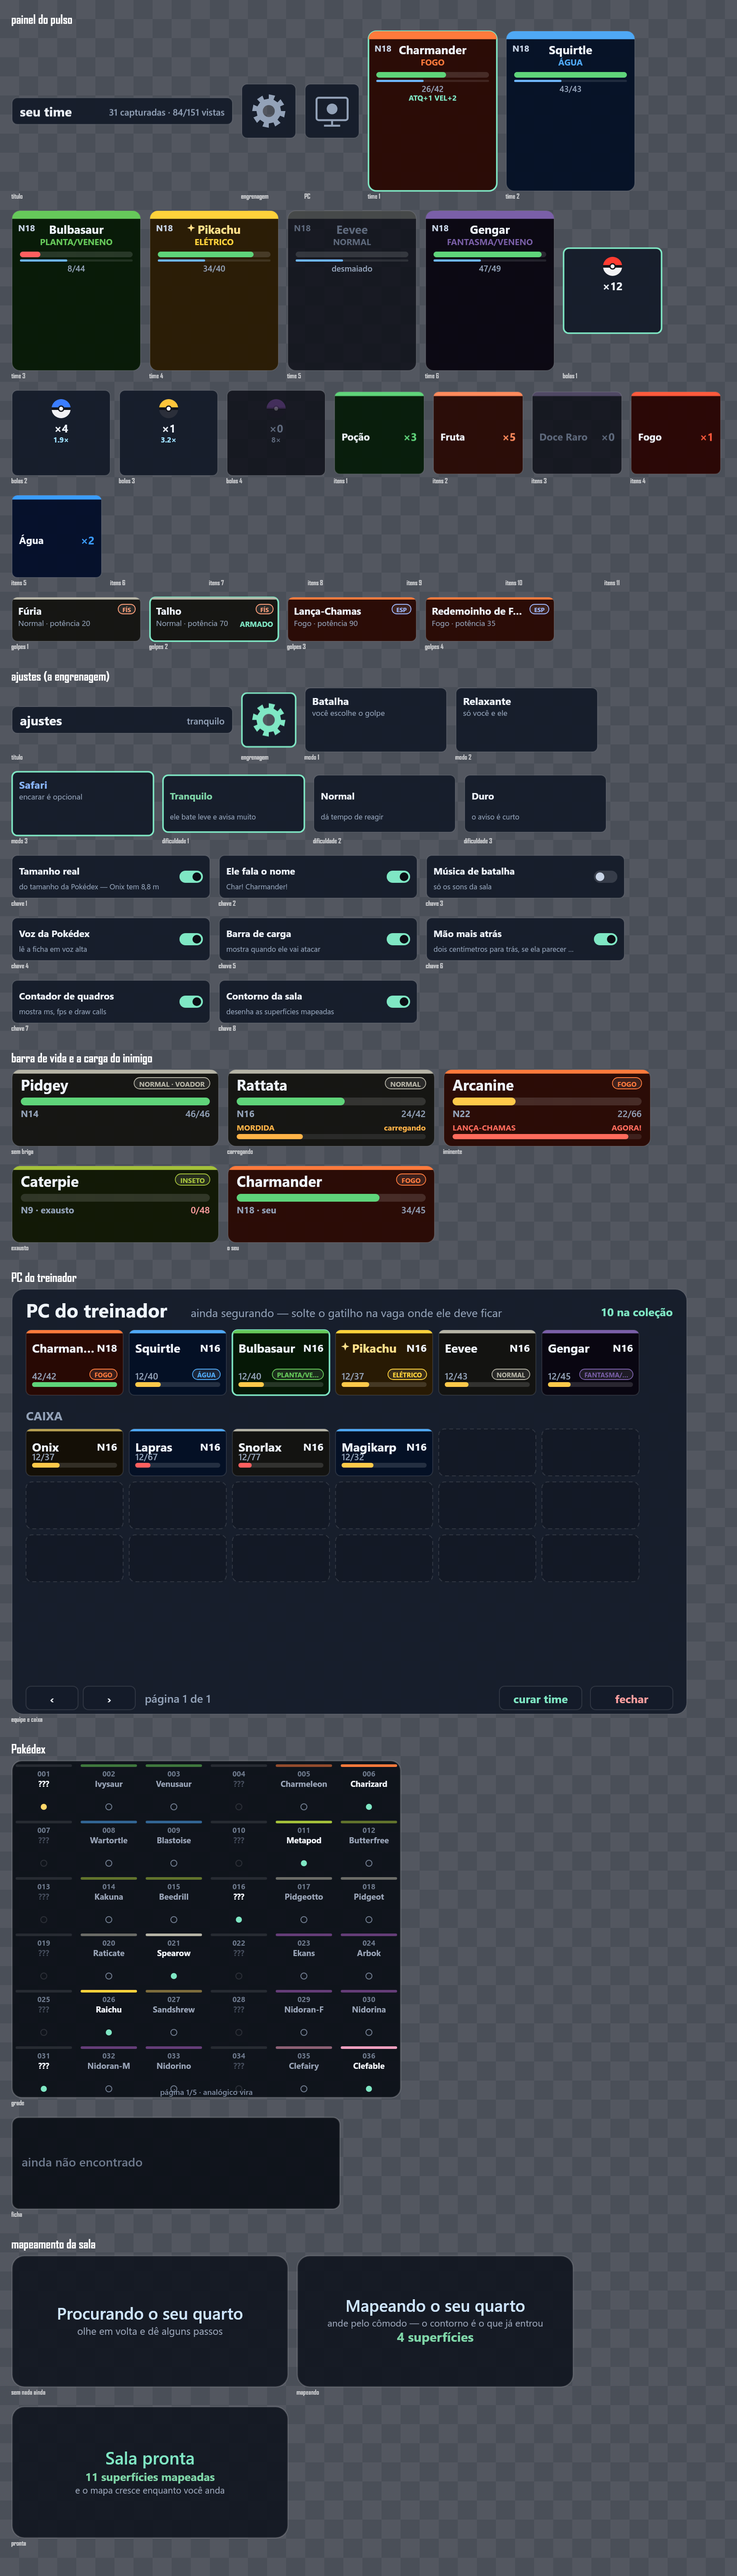
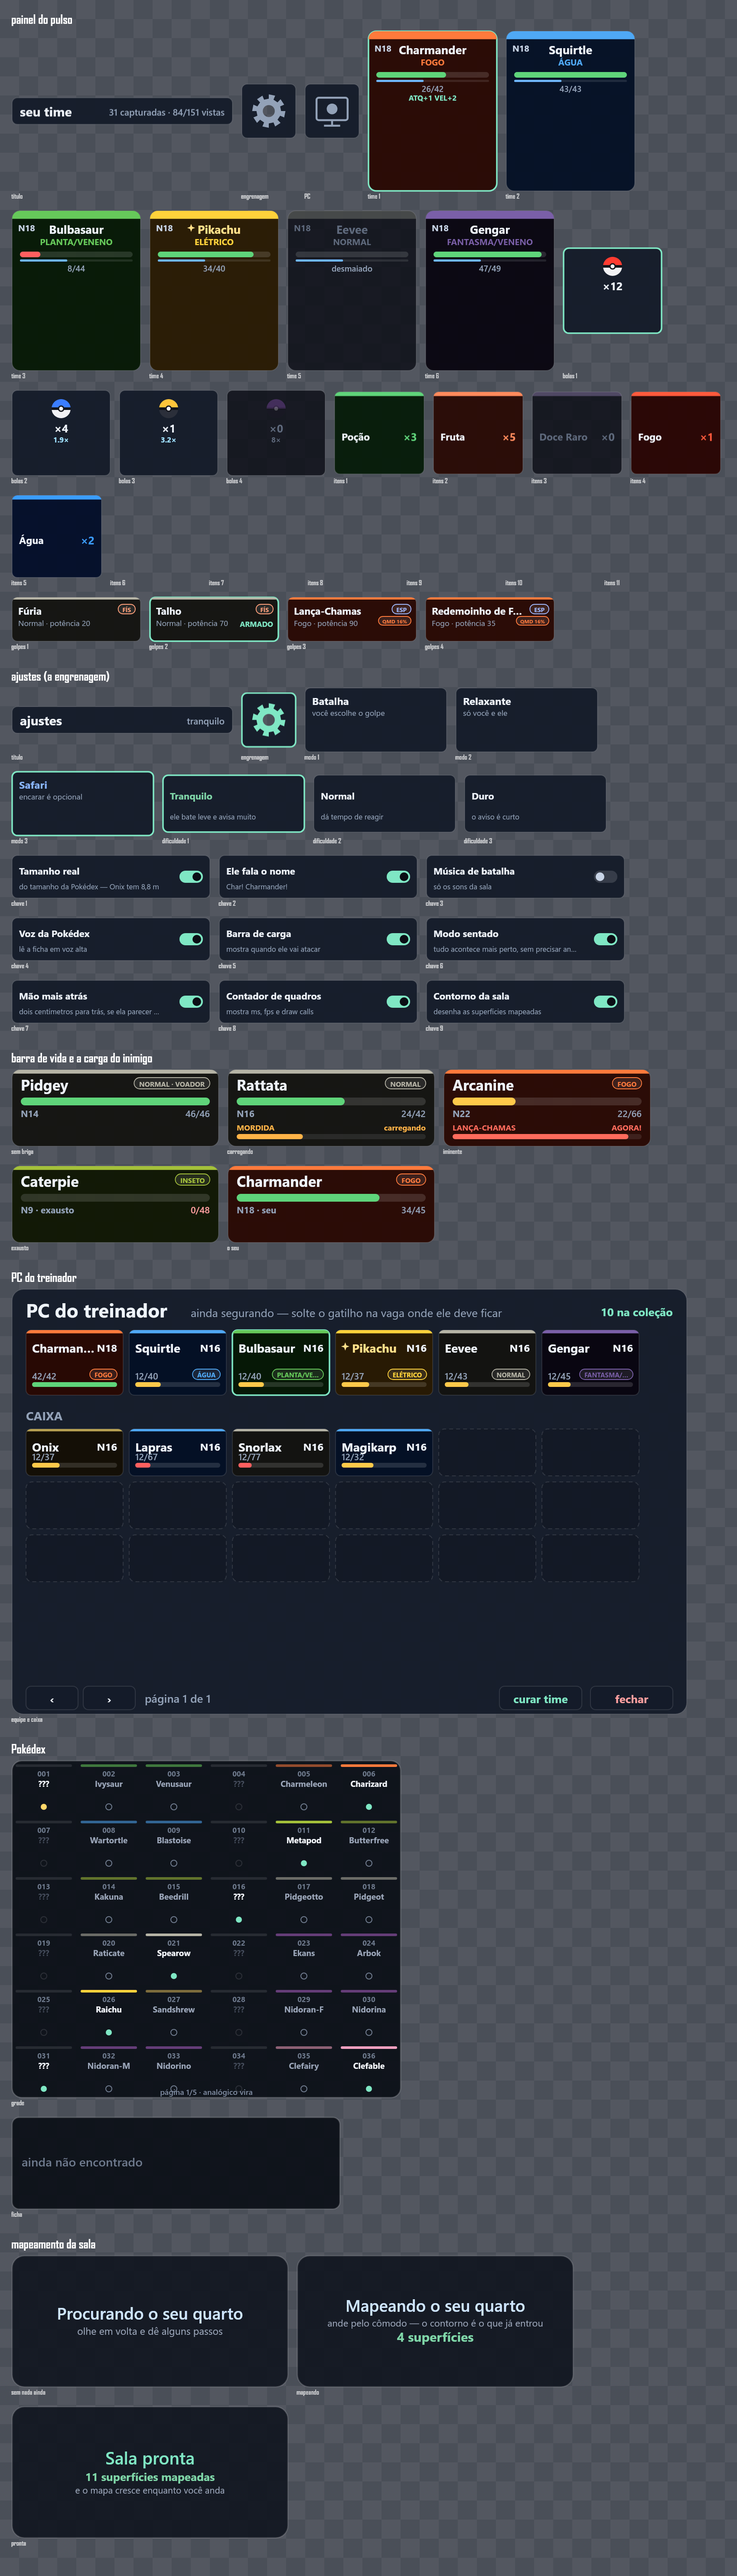
O Centro Pokémon vira um móvel da sua casa, e as condições saem do escuro
Duas coisas nesta rodada, e a primeira existe porque a anterior não estaria
terminada sem ela.

**As condições estavam invisíveis.** Sono, paralisia, queimadura e veneno
entraram no combate no commit passado e não apareciam em lugar nenhum da
interface antes da escolha. Um jogador podia jogar a sessão inteira sem
descobrir que adormecer existe — e uma mecânica que ninguém encontra é uma
mecânica que não foi feita.

Agora o card do golpe, no painel do pulso, mostra o que aquele golpe pode
deixar no alvo: uma pílula com a sigla e a chance. É o único lugar em que a
informação chega ANTES da decisão, que é quando ela serve para alguma coisa —
saber que o Lança-Chamas queima depois de já ter escolhido não ajuda ninguém. E
a barra de vida do selvagem ganhou a pílula da condição ATIVA, embaixo da do
tipo, que é onde os jogos de Pokémon sempre a puseram.

**O Centro Pokémon.** Curar existia como um botão dentro do PC: correto,
gratuito e sem lugar nenhum. Num jogo de Pokémon o Centro é uma das coisas que
dão geografia ao mundo — você sabe onde ele fica, você VOLTA para lá, e a
distância até ele é o que dá peso a continuar caçando com o time machucado. Um
botão num menu não tem distância, e por isso não tem peso.

Aqui ele é uma superfície do seu quarto. O jogo escolhe um móvel mapeado — a
mesma preferência que os itens usam — e marca com um disco e a cruz. Você leva
o time até lá e ele se cura, inteiro e sem espera: o custo é IR. Num cômodo
[…]

Changed region(s): [[0.5612, 0.3739, 0.8418, 0.405]]

diff --git a/src/centro.ts b/src/centro.ts
@@ -1,0 +1,168 @@
+import * as THREE from 'three';
+import { Placa } from './hud';
+import type { Sala } from './room';
+
+/**
+ * O Centro Pokémon: um móvel da sua casa que cura o time.
+ *
+ * ## Por que isto é mais Pokémon do que o botão que ele substitui
+ *
+ * Curar existia como um botão "curar time" dentro do PC — correto, gratuito e
+ * sem lugar nenhum. Num jogo de Pokémon o Centro é uma das três coisas que
+ * estruturam a geografia inteira: você sabe onde ele fica, você VOLTA para ele,
+ * e a distância até ele é o que dá peso a continuar caçando com o time
+ * machucado. Um botão num menu não tem distância, e por isso não tem peso.
+ *
+ * Aqui o Centro é uma **superfície do seu quarto** — a sua mesa, o seu
+ * criado-mudo. O jogo escolhe um móvel mapeado e marca com um disco luminoso e
+ * a cruz; você leva o time até lá e ele se cura. É a mesma ideia dos itens em
+ * cima dos móveis (src/achados.ts), levada ao lugar onde ela muda o laço do
+ * jogo em vez de só recompensá-lo.
+ *
+ * ## Por que ele não é gratuito, mas também não é punição
+ *
+ * A cura é completa e não tem espera: o custo é **ir até lá**. Num cômodo isso
+ * são alguns passos, e é exatamente o tipo de custo que a realidade misturada
+ * cobra de graça e que nenhum outro jogo consegue cobrar.
+ *
+ * O botão do PC continua existindo. Tirar o caminho de saída de quem joga
+ * sentado, ou de quem está num quarto que o headset não mapeou, seria trocar
+ * uma coisa boa por uma barreira.
+ */
+
+/** A que distância do disco o time se cura. */
+const ALCANCE = 0.55;
+/** Raio do disco no chão do móvel. */
+const RAIO = 0.16;
+
+export class Centro {
+  readonly grupo = new THREE.Group();
+
+  private disco: THREE.Mesh;
+  private cruz: THREE.Group;
+  private placa = new Placa(0.24, 0.07, 420);
+  private luz: THREE.PointLight;
+  private descartaveis: Array<THREE.BufferGeometry | THREE.Material> = [];
+  private tempo = 0;
+  private colocado = false;
+  /** Segundos até poder curar de novo. */
+  private recarga = 0;
+
+  constructor() {
+    const geoDisco = new THREE.CylinderGeometry(RAIO, RAIO, 0.004, 32);
+    const matDisco = new THREE.MeshBasicMaterial({
+      color: 0xff6b8a,
+      transparent: true,
+      opacity: 0.4,
+      depthWrite: false,
+      blending: THREE.AdditiveBlending,
+    });
+    this.descartaveis.push(geoDisco, matDisco);
+    this.disco = new THREE.Mesh(geoDisco, matDisco);
+    this.grupo.add(this.disco);
+
+    // A cruz, que é o símbolo. Dois blocos finos cruzados, porque a essa
+    // distância e nesse tamanho qualquer coisa mais detalhada vira um borrão.
+    this.cruz = new THREE.Group();
+    const matCruz = new THREE.MeshBasicMaterial({
+      color: 0xffd7de,
+      transparent: true,
+      opacity: 0.9,
+      depthWrite: false,
+      blending: THREE.AdditiveBlending,
+    });
+    const geoBraco = new THREE.BoxGeometry(RAIO * 0.9, 0.006, RAIO * 0.28);
+    this.descartaveis.push(matCruz, geoBraco);
+    const horizontal = new THREE.Mesh(geoBraco, matCruz);
+    const vertical = new THREE.Mesh(geoBraco, matCruz);
+    vertical.rotation.y = Math.PI * 0.5;
+    this.cruz.add(horizontal, vertical);
+    this.cruz.position.y = 0.006;
+    this.grupo.add(this.cruz);
+
+    this.placa.escrever(
+      [
+        { texto: 'Centro Pokémon', tamanho: 34, cor: '#ffd7de', peso: 700 },
+        { texto: 'traga o time para cá', tamanho: 21, cor: '#9aa5b8', peso: 500, espaco: 4 },
+      ],
+      { raio: 14, fundo: 'rgba(10, 14, 22, 0.86)', borda: 'rgba(255, 180, 200, 0.3)' },
+    );
+    this.placa.malha.position.y = 0.2;
+    this.grupo.add(this.placa.malha);
+
+    this.luz = new THREE.PointLight(0xff8fa8, 0.5, 1.1, 2);
+    this.luz.position.y = 0.12;
+    this.grupo.add(this.luz);
+
+    this.grupo.visible = false;
+  }
+
+  get pronto(): boolean {
+    return this.colocado && this.recarga <= 0;
+  }
+
+  get posicao(): THREE.Vector3 {
+    return this.grupo.position;
+  }
+
+  /**
+   * Escolhe um móvel e planta o Centro nele. Uma vez por sessão.
+   *
+   * O móvel é escolhido pelo próprio sorteio de superfícies do jogo, com a
+   * preferência `movel` — a mesma que os itens usam. Não há escolha do jogador
+   * aqui de propósito: um passo de configuração antes de jogar é um passo que
+   * quase ninguém completa, e o Centro precisa existir para quem só quer
+   * brincar. Se o lugar ficar ruim, ele se muda sozinho na próxima sessão.
+   */
+  talvezColocar(sala: Sala, jogador: THREE.Vector3): boolean {
+    if (this.colocado) return false;
+    const local = sala.pontoDeSpawn(jogador, 0.8, 5, 'movel');
+    if (!local || local.rotulo === 'floor') return false;
+
+    this.grupo.position.copy(local.ponto);
+    this.grupo.position.y += 0.012;
+    this.colocado = true;
+    this.grupo.visible = true;
+    return true;
+  }
+
+  /**
+   * Devolve `true` no quadro em que o time deve ser curado.
+   *
+   * A recarga longa não é balanço, é conforto: sem ela, passar perto do móvel
+   * com o time inteiro dispararia a fanfarra e o aviso a cada poucos segundos,
+   * e a coisa mais acolhedora do jogo viraria a mais irritante.
+   */
+  atualizar(dt: number, jogador: THREE.Vector3, precisaCurar: boolean): boolean {
+    if (!this.colocado) return false;
+    this.tempo += dt;
+    if (this.recarga > 0) this.recarga -= dt;
+
+    // Pulsa devagar, como a luz de um lugar seguro deve pulsar.
+    const pulso = 0.5 + Math.sin(this.tempo * 1.5) * 0.5;
+    (this.disco.material as THREE.MeshBasicMaterial).opacity = 0.26 + pulso * 0.22;
+    this.luz.intensity = 0.35 + pulso * 0.3;
+    this.cruz.position.y = 0.006 + pulso * 0.012;
+    this.cruz.rotation.y += dt * 0.25;
+
+    // A placa encara quem chega, mas só no plano: inclinar para cima faria o
+    // texto apontar para o teto quando você se aproxima de perto.
+    this.placa.malha.lookAt(jogador.x, this.placa.malha.getWorldPosition(_mundo).y, jogador.z);
+
+    if (!precisaCurar || this.recarga > 0) return false;
+    const perto =
+      Math.hypot(jogador.x - this.grupo.position.x, jogador.z - this.grupo.position.z) < ALCANCE;
+    if (!perto) return false;
+
+    this.recarga = 20;
+    return true;
+  }
+
+  descartar() {
+    this.placa.descartar();
+    this.grupo.removeFromParent();
+    for (const d of this.descartaveis) d.dispose();
+  }
+}
+
+const _mundo = new THREE.Vector3();

diff --git a/src/game.ts b/src/game.ts
@@ -63,6 +63,7 @@ import { ItemNaMao, RastroDeIsca } from './isca';
 import { Mochila } from './mochila';
 import { Medidor } from './medidor';
 import { Achados } from './achados';
+import { Centro } from './centro';
 import { CONDICOES, condicaoDoGolpe } from './condicao';
 import { pedindoAjuda } from './gesto';
 import { Aura, Efeito, Impacto, NumeroDeDano } from './attacks';
@@ -240,7 +241,8 @@ export class Jogo {
   private mochila = new Mochila();
   /** Os itens que aparecem em cima dos seus móveis. Ver src/achados.ts. */
   private achados = new Achados(this.cena);
-  /** Há quanto tempo as duas palmas estão para cima. Ver atualizarPedidoDeAjuda. */
+  /** O Centro Pokémon, plantado num móvel do seu quarto. Ver src/centro.ts. */
+  private centro = new Centro();
   /** Há quanto tempo a cabeça está na altura de quem está sentado. Ver 4.2. */
   private tempoSentado = 0;
   private pedindoAjudaHa = 0;
@@ -305,7 +307,7 @@ export class Jogo {
     this.aviso = new Aviso(this.cena);
     this.sala.usarFallback();
 
-    this.cena.add(this.painelTime.grupo, this.pc.grupo, this.mochila.grupo);
+    this.cena.add(this.painelTime.grupo, this.pc.grupo, this.mochila.grupo, this.centro.grupo);
     // A Pokédex não entra solta na cena: as placas dela são a TELA do tablet,
     // e é a carcaça que anda pelo mundo.
     this.tablet.tela.add(this.painelDex.grupo);
@@ -3108,6 +3110,8 @@ export class Jogo {
     this.atualizarOuvinte();
     this.atualizarAchados(dt);
     this.atualizarPostura(dt);
+    this.atualizarCentro(dt);
+    this.atualizarCentro(dt);
     this.atualizarPedidoDeAjuda(dt);
     this.atualizarPaineis(dt);
     this.atualizarMarca(dt);
@@ -3688,6 +3692,59 @@ export class Jogo {
       4.5,
     );
     for (const mao of this.maos) mao.sentir('marcou');
+  }
+
+  /**
+   * O Centro Pokémon: planta-se num móvel e cura quem chega perto.
+   *
+   * Curar existia como um botão no PC — correto, gratuito e sem lugar nenhum.
+   * Num jogo de Pokémon o Centro é uma das coisas que dão geografia ao mundo:
+   * você sabe onde ele fica, você volta para lá, e a distância até ele é o que
+   * dá peso a continuar caçando com o time machucado. Um botão não tem
+   * distância, e por isso não tem peso.
+   *
+   * O botão continua existindo, e é de propósito: tirar a saída de quem joga
+   * sentado ou num quarto que o headset não mapeou seria trocar uma coisa boa
+   * por uma barreira.
+   */
+  private atualizarCentro(dt: number) {
+    if (this.escaneando) return;
+
+    if (this.centro.talvezColocar(this.sala, this.posicaoJogador)) {
+      this.aviso.mostrar(
+        [
+          { texto: 'Centro Pokémon', tamanho: 36, cor: '#ffd7de' },
+          {
+            texto: 'aquele móvel cura o seu time — volte lá quando precisar',
+            tamanho: 21,
+            cor: '#9aa5b8',
+            peso: 500,
+          },
+        ],
+        3.6,
+      );
+    }
+
+    // Só cura quem precisa: passar perto com o time inteiro não dispara nada.
+    const machucado = this.dex.timeVivo.some((e) => e.hp < this.dex.hpMaxDe(e));
+    if (!this.centro.atualizar(dt, this.posicaoJogador, machucado)) return;
+
+    this.dex.curarTime();
+    this.companheiro?.limparCondicao();
+    if (this.companheiro?.viva && this.exemplarEmCampo) {
+      this.companheiro.curar(this.companheiro.hpMax);
+    }
+
+    const onde = this.centro.posicao;
+    audio.de(onde.x, onde.y, onde.z, () => audio.sucesso());
+    for (const mao of this.maos) mao.sentir('pegou');
+    this.aviso.mostrar(
+      [
+        { texto: 'seu time está inteiro de novo', tamanho: 36, cor: '#9ff0c4' },
+        { texto: 'obrigado por esperar!', tamanho: 21, cor: '#9aa5b8', peso: 500 },
+      ],
+      2.6,
+    );
   }
 
   private atualizarOuvinte() {
@@ -4718,6 +4775,7 @@ export class Jogo {
     this.mochila.descartar();
     this.medidor.descartar();
     this.achados.descartar();
+    this.centro.descartar();
     for (const rastro of this.rastros.values()) rastro.descartar();
     for (const isca of this.itemNaMao.values()) isca.descartar();
     for (const mao of this.maos) mao.luva?.descartar();

diff --git a/src/menu.ts b/src/menu.ts
@@ -6,6 +6,7 @@ import { ITENS, type TipoItem } from './itens';
 import { MODOS, type Modo, type ModoId } from './modos';
 import { DIFICULDADES, INTERRUPTORES, type Dificuldade, type PerfilDificuldade } from './ajustes';
 import { olhandoORelogio } from './gesto';
+import { CONDICOES, condicaoDoGolpe } from './condicao';
 import {
   COR,
   RAIO,
@@ -820,6 +821,29 @@ export class PainelTime {
           ? (golpe.resumo ?? 'muda os stats')
           : `${TIPOS[golpe.tipo].nome} · potência ${golpe.potencia}`;
       ctx.fillText(textoAjustado(ctx, detalhe, canvas.width - 90), 16, 52);
+
+      // O que este golpe pode DEIXAR no alvo — a descoberta das condições.
+      //
+      // Elas entraram no combate e não estavam em lugar nenhum da interface: um
+      // jogador podia jogar a sessão inteira sem descobrir que dormir existe, e
+      // uma mecânica que ninguém encontra é uma mecânica que não foi feita.
+      // Aqui, no card do golpe, é o único lugar em que a informação chega ANTES
+      // da escolha — que é quando ela serve para alguma coisa.
+      const deixa = condicaoDoGolpe(golpe.tipo, golpe.categoria, golpe.nome);
+      if (deixa) {
+        const perfil = CONDICOES[deixa.condicao];
+        // "sempre" quando o golpe existe para isso, e a chance quando é bônus.
+        const quanto = deixa.chance >= 0.7 ? '' : ` ${Math.round(deixa.chance * 100)}%`;
+        pilula(
+          ctx,
+          `${perfil.sigla}${quanto}`,
+          canvas.width - 14,
+          46,
+          20,
+          hex(perfil.cor),
+          { alinhar: 'right', maxLargura: canvas.width * 0.42 },
+        );
+      }
 
       if (armado) {
         ctx.textAlign = 'right';
